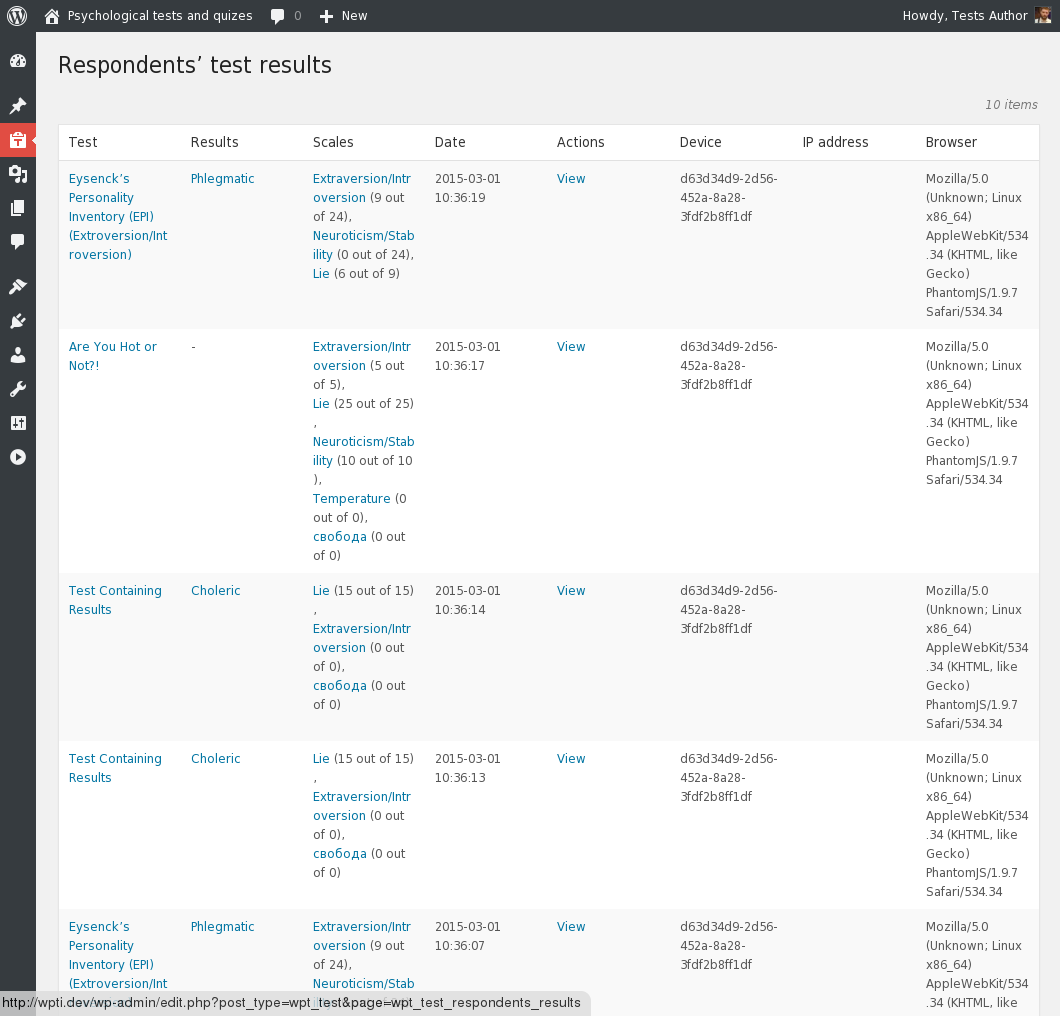
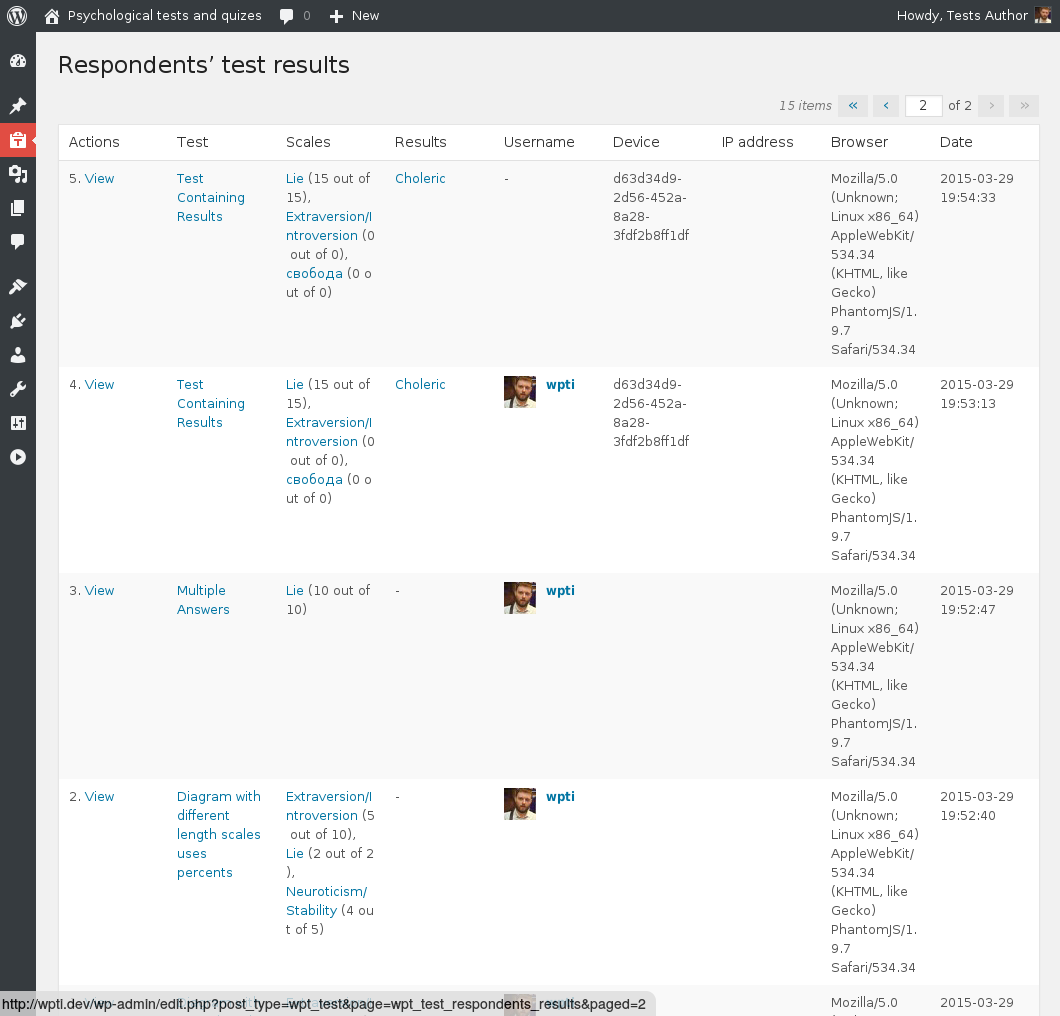
Update respondent's results screenshot

diff --git a/tools/screenshots/create-screenshots.js b/tools/screenshots/create-screenshots.js
@@ -134,7 +134,7 @@ var screenshots = [
     }, {
         title   : 'Respondents’ test results in admin area. Test link will open test in edit more and view link allow to see test result',
         actions : function () {
-            casper.thenOpen('http://wpti.dev/wp-admin/edit.php?post_type=wpt_test&page=wpt_test_respondents_results')
+            casper.thenOpen('http://wpti.dev/wp-admin/edit.php?post_type=wpt_test&page=wpt_test_respondents_results&paged=2')
         }
     }, {
         title   : 'Ready test on the home page',
@@ -143,7 +143,7 @@ var screenshots = [
                 this.clickLabel('log out', 'a')
             }).waitForUrl(/loggedout/)
 
-            casper.thenOpen('http://wpti.dev/')
+            casper.thenOpen('http://wpti.dev/page/2/')
         }
     }, {
         title   : 'The page with the description of the test, questions and answers',
@@ -157,6 +157,7 @@ var screenshots = [
         title   : 'The button is disabled until all questions are not answered',
         offset  : 7200,
         actions : function () {
+            casper.wait(400)
         }
     }, {
         title   : 'Get test results after all questions are answered',
